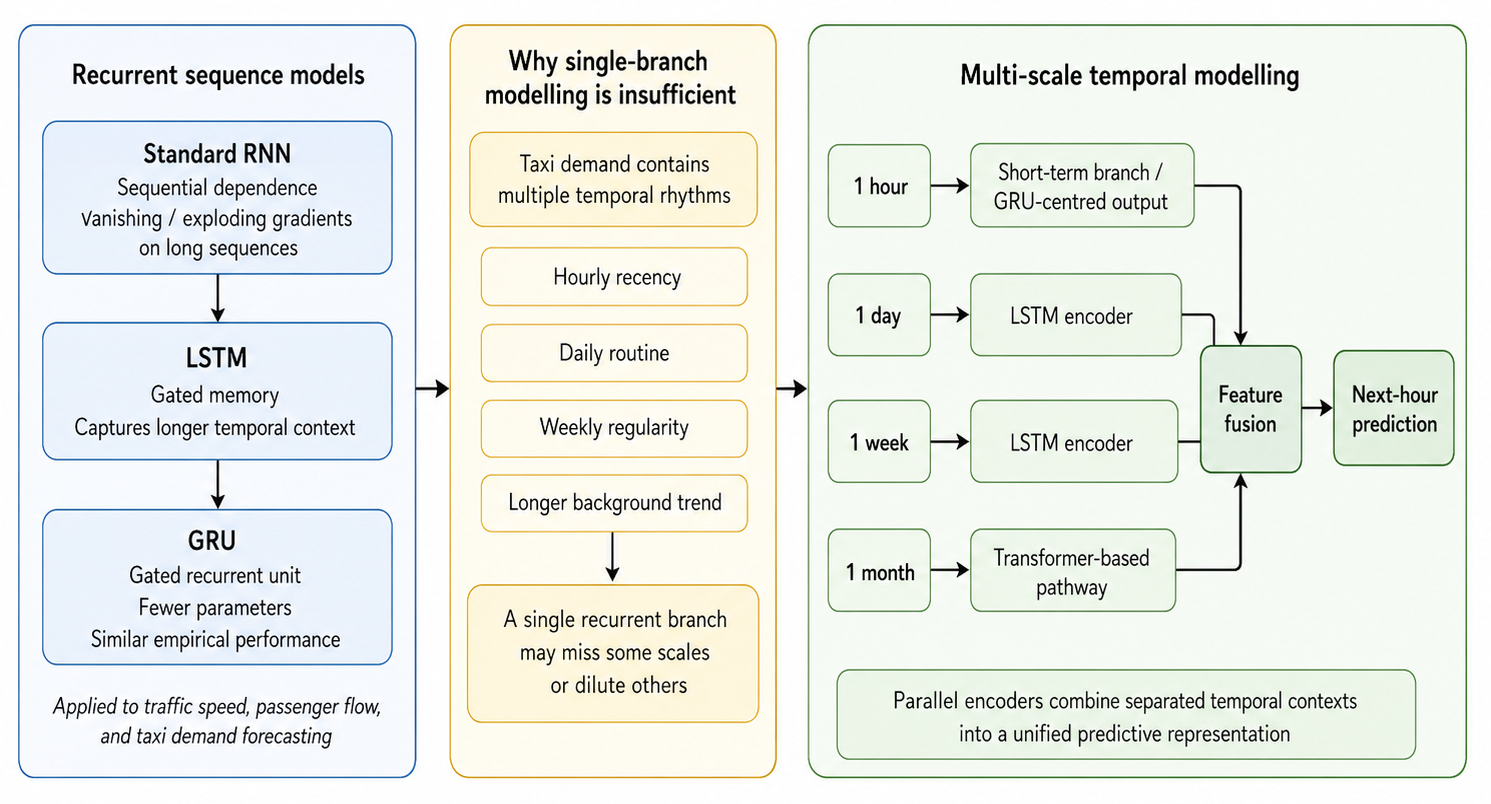
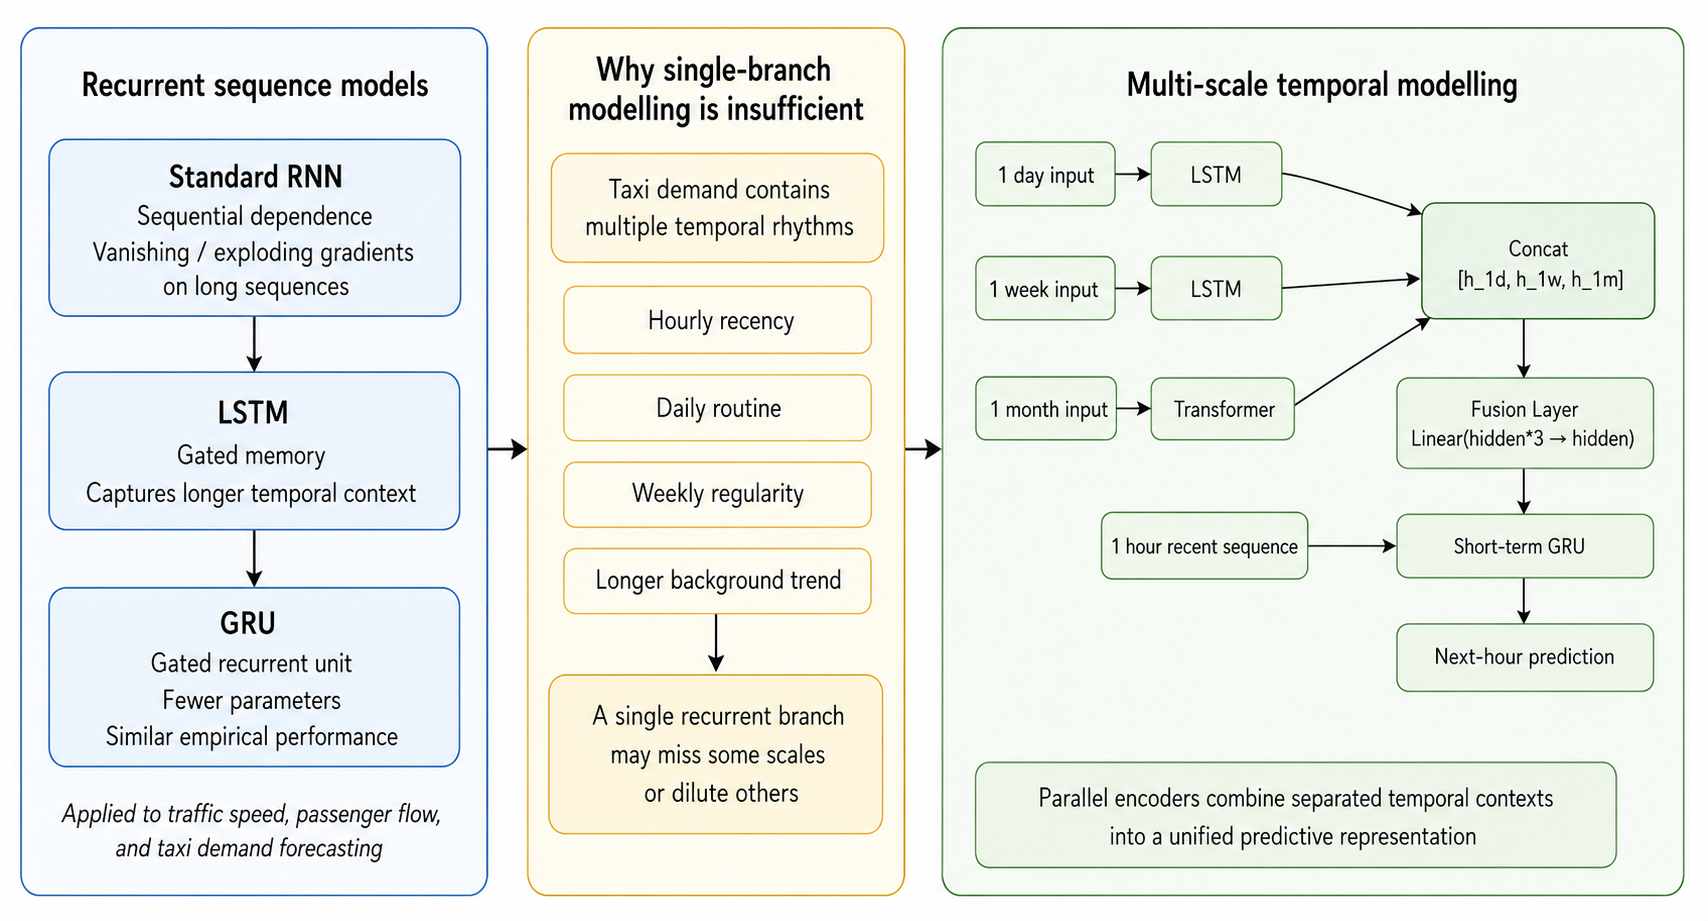
check point before switch to od graph

diff --git a/code/demo/code/persistent_multiscale_incre_confi.py b/code/demo/code/persistent_multiscale_incre_confi.py
@@ -141,7 +141,7 @@ class ManagerConfig:
     lambda_aux: float = 0.5
     K_mc_train: int = 5
     M_mc_test: int = 20
-    deterministic_predict: bool = True
+    deterministic_predict: bool = False
 
 
 class MultiScaleModelManager:
@@ -211,7 +211,7 @@ class MultiScaleModelManager:
         """Return dense hourly counts from [end_inclusive - sequence_length, end_inclusive]."""
         assert {"datetime", "PULocationID"} <= set(df.columns)
 
-        start_date = end_inclusive - pd.Timedelta(hours=800)
+        start_date = end_inclusive - pd.Timedelta(hours=1000)
         zone_df = df[df["PULocationID"] == zone_id].copy()
         hourly = zone_df.groupby("datetime").size().reset_index(name="passenger_count")
 
@@ -223,7 +223,7 @@ class MultiScaleModelManager:
             .rename_axis("datetime")
             .reset_index()
         )
-        hourly["passenger_count"] = hourly["passenger_count"].astype(float).fillna(0.0)
+        hourly["passenger_count"] = hourly["passenger_couwoyuont"].astype(float).fillna(0.0)
         return hourly
 
     def _fit_scaler_hist(self, hourly: pd.DataFrame, fit_until_exclusive: pd.Timestamp) -> MinMaxScaler:

diff --git a/code/demo/code/demo_rolling_GNN.py b/code/demo/code/demo_rolling_GNN.py
@@ -10,7 +10,7 @@ import torch
 
 from gnn_model import run_gnn_pipeline
 
-MODEL_BACKEND = "lstm"  # "lstm", "gru", "transformer", or "multiscale"
+MODEL_BACKEND = "multiscale"  # "lstm", "gru", "transformer", or "multiscale"
 
 if MODEL_BACKEND == "lstm":
     from persistent_lstm import ManagerConfig, PureLSTMModelManager as MultiScaleModelManager
@@ -58,7 +58,7 @@ MC_DROPOUT_SAMPLES = 10
 HISTORY_WINDOWS = {
     "mean_24h": 24,
     "mean_168h": 24 * 7,
-    "mean_720h": 24 * 15,
+    "mean_720h": 24 * 30,
 }
 HISTORY_FEATURES = list(HISTORY_WINDOWS.keys())
 
